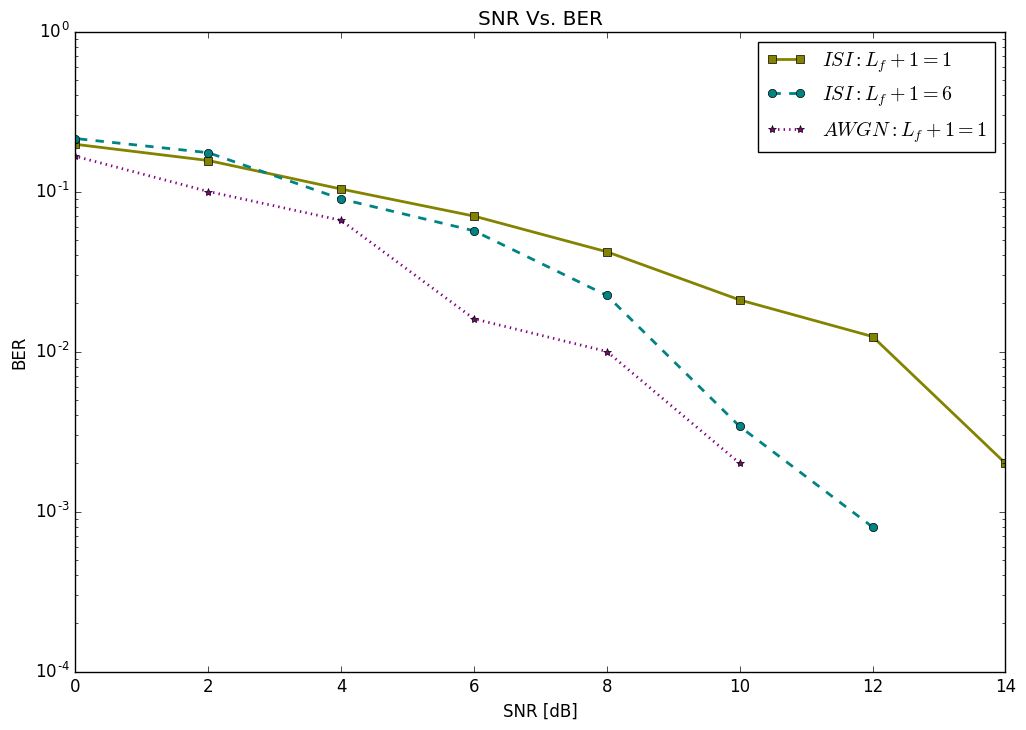
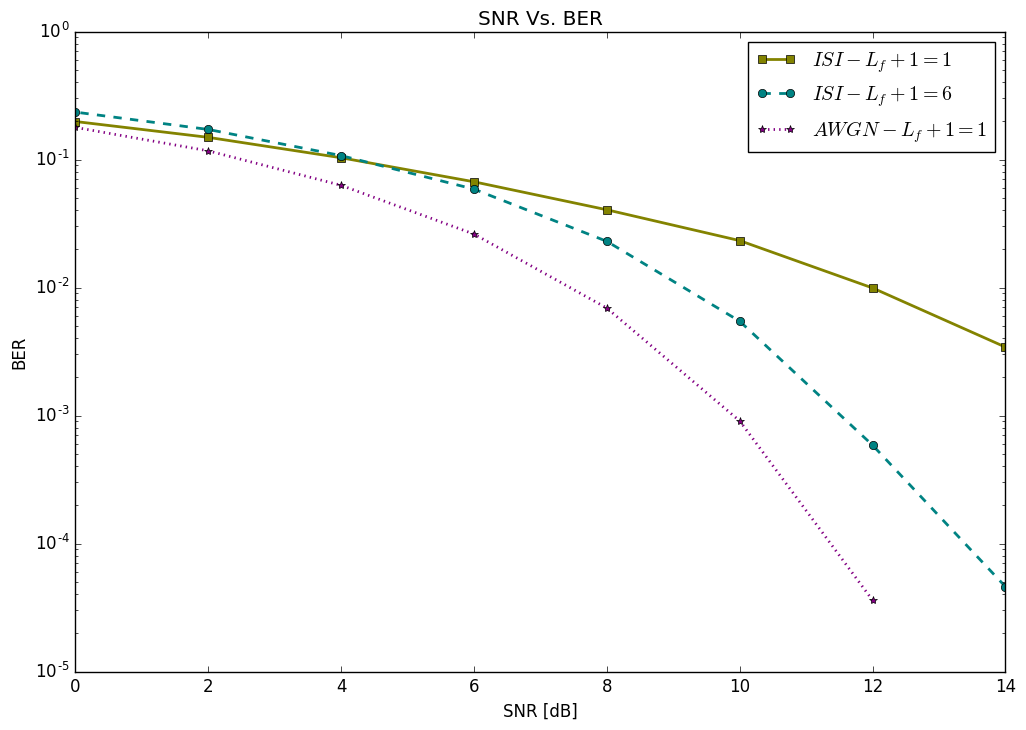
Final version of the report

diff --git a/Labo Télécommunication/Lab 4/Rapport/main.tex b/Labo Télécommunication/Lab 4/Rapport/main.tex
@@ -38,7 +38,7 @@ Vary SNR from 0 dB to 14 dB in increments of 2 dB}
 
 \begin{figure}[ht!]
 \centering
-\includegraphics[scale=0.25]{img/SNR.png}
+\includegraphics[scale=0.35]{img/SNR.png}
 \caption{Bit-error rate VS SNR}
 \label{BER}
 \end{figure}
@@ -110,7 +110,7 @@ First we use the following formula
 T_s=N*T_N in [Symbol/s]
 \end{equation}
 
-with N which is the oversampling factor and $T_n$, the sample rate. At the end, the symbol rate must remain constant. So, for $T_N=10M Sample/s$, and $N=2$, \textbf{$T_s=5 MSymbol/s$}
+with N which is the oversampling factor and $T_N$, the sample rate. At the end, the symbol rate must remain constant. So, for $T_s=2M Sample/s$, and $N=20$, \textbf{$T_N=100 kSymbol/s$}
 
 \subsection{What is the passband bandwidth of your system?}
 
